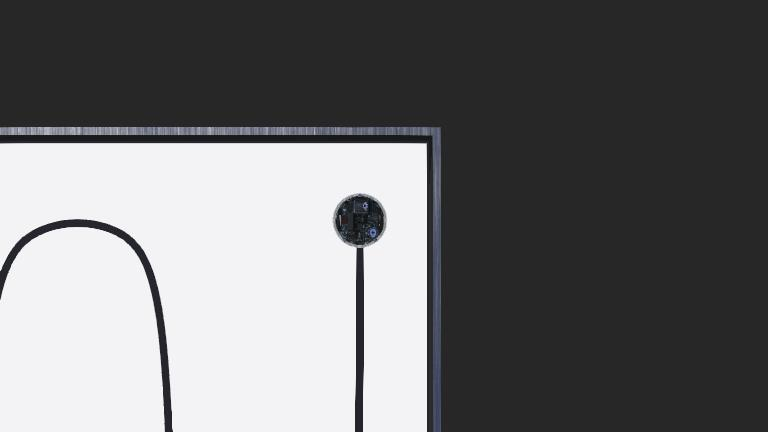
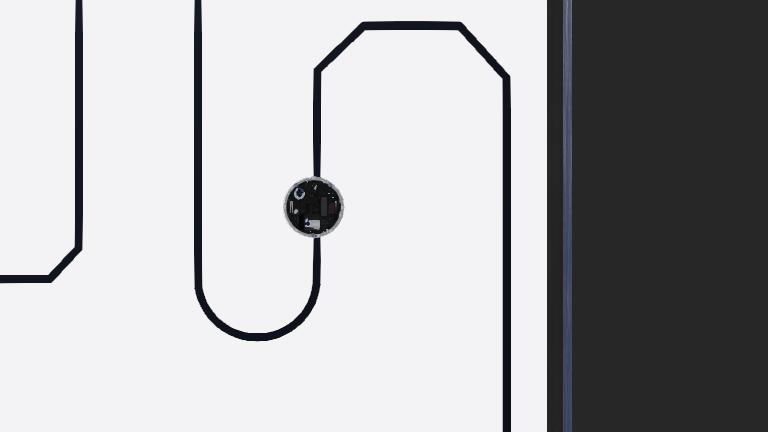
Add arena
Please tunning the PID again.

I try to change the base speed to 5, but it still can't run smoothly.

Let me sleep :")

diff --git a/controllers/pid_controller/pid_controller.py b/controllers/pid_controller/pid_controller.py
@@ -24,13 +24,13 @@ e_prev = 0
 integral = 0
 
 # Scale is used for OpenCV Resize Window
-scale = 0.65
+scale = 0.35
 
 # PID Configuration
 def CalculatePID(error, integral, derivative):
     Kp = 0.02
-    Ki = 0.00000001
-    Kd = 0.00001
+    Ki = 0.004
+    Kd = 0.01
     u = Kp * error + Ki * integral + Kd * derivative
     return u
 
@@ -107,8 +107,17 @@ while robot.step(timestep) != -1:
         break
 
     # Set the motors velocity
-    leftVel = 3.5 - PID
-    rightVel = 3.5 + PID
+    leftVel = 6 - PID
+    rightVel = 6 + PID
+
+    if leftVel >= 7.536:
+        leftVel = 7.536
+    elif rightVel >= 7.536:
+        rightVel = 7.536
+    if leftVel <= -7.536:
+        leftVel = -7.536
+    elif rightVel <= -7.536:
+        rightVel = -7.536
     # print(f"Left Velocity: {leftVel}, Right Velocity: {rightVel}, PID: {PID}, Error: {error}, Delta Error: {delta_err}")
     print(f"{leftVel}, {rightVel}, {PID}, {error}, {delta_err}")
     
